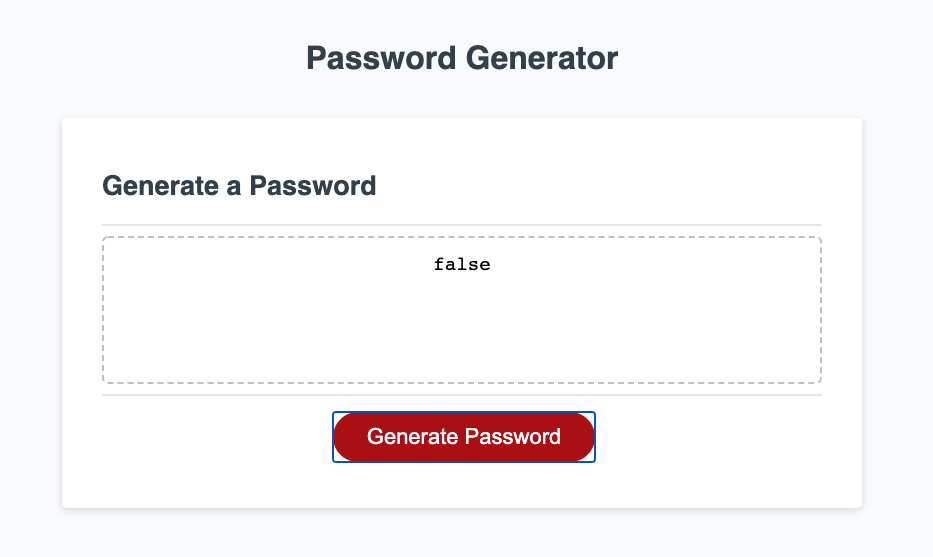
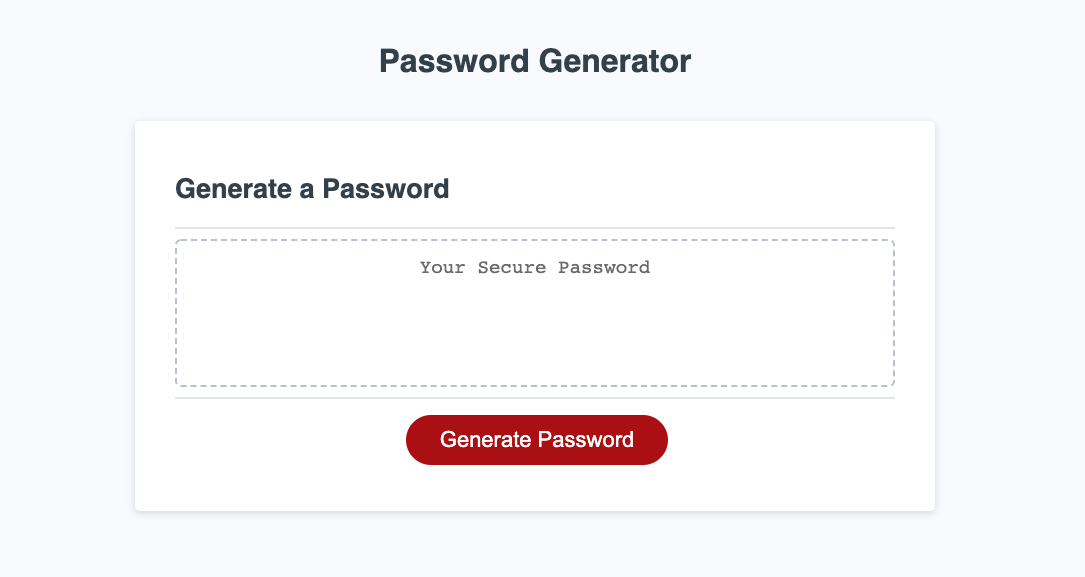
Cleaning up readme and updated screeshots.

diff --git a/README.md b/README.md
@@ -1,12 +1,12 @@
 Project Title: Password-Generator-HW-3-TR
-Description:This project generates a random password base on selecting atleast one of four character types and the length of the password.
-Installation:NA
 
-![](./images/home.png)
-![](./images/password.png)
+Description:This project generates a random password base on selecting atleast one of four character types and the length of the password.
 
 Usage:
 The user must select a password length between 8 and 128. If the user does not, an error message will be presented and the program with terminate. Similarly, at least one of the four character types must be chosen, or the user will get an error message and the program will terminate. At the end of the selection of valid options, a random password will be generated.
+
+![](./images/home.png)
+![](./images/password.png)
 
 Credits: The TA's are always helpful.
 
